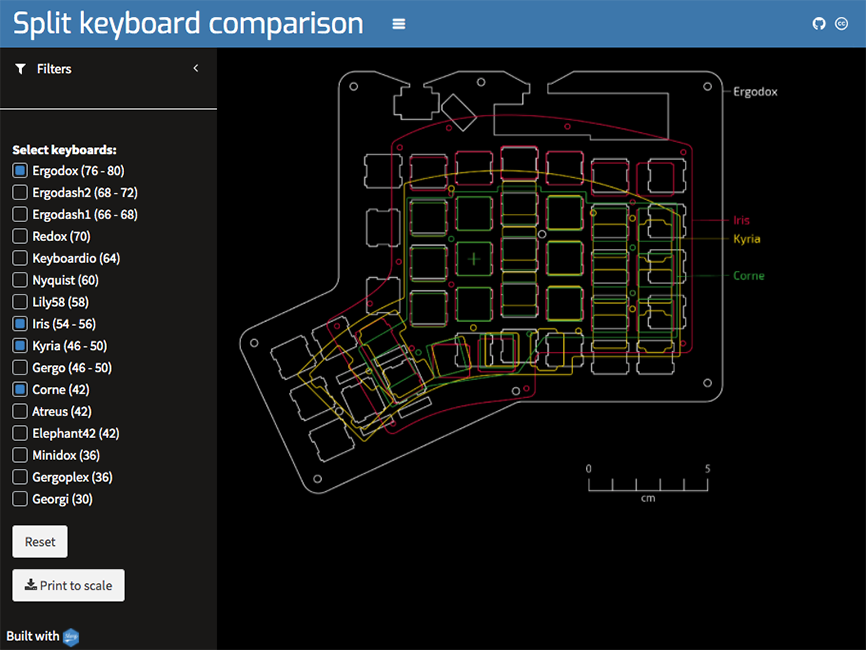
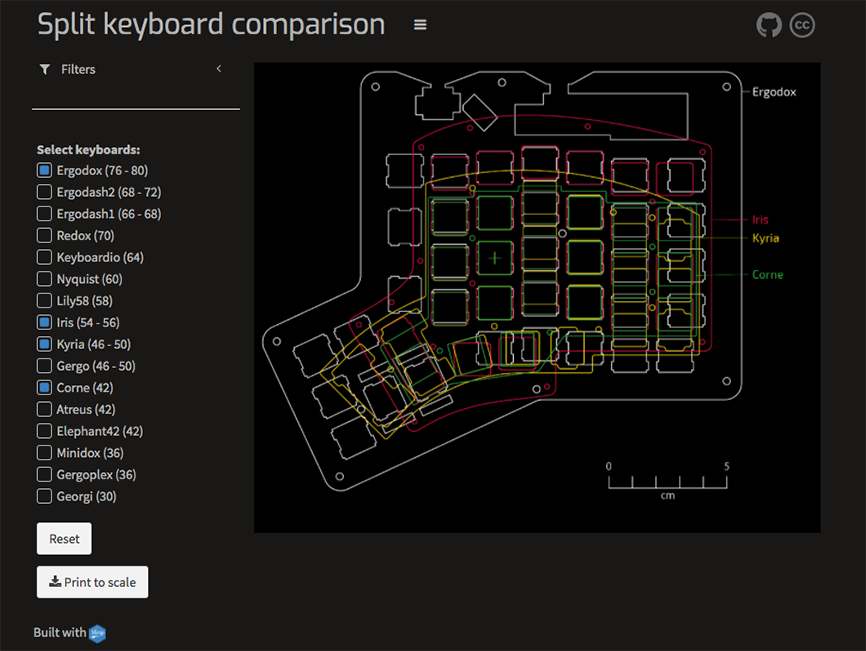
changed styling

diff --git a/style.css b/style.css
@@ -1,35 +1,57 @@
 @import url(https://fonts.googleapis.com/css?family=Exo);
 /* fontawesome icons in header */
 .fa.fa-github {
-  margin: 18px 7px 0px 0px;
+  color: #777;
+  margin: 12px 5px 0px 0px;
+}
+.fa.fa-github:hover {
+  color: #FFF;
 }
 .fa.fa-creative-commons {
-  margin: 18px 7px 0px 0px;
+  color: #777;
+  margin: 0px 10px 0px 0px;
+}
+.fa.fa-creative-commons:hover {
+  color: #FFF;
 }
 /* header title */
 .main-header .logo {
   font-family: Exo, sans-serif;
   font-size: 30px;
 }
+.skin-blue .main-header .logo:hover {
+  background-color: #1A1917;
+  color: #FFF;
+}
 /* header background */
 .skin-blue .main-header .logo {
-    background-color: #4682b4;
+  background-color: #1A1917;
+  color: #bdbdbd;
 }
 .skin-blue .main-header .navbar {
-    background-color: #4682b4;
+  background-color: #1A1917;
+}
+.skin-blue .main-header .navbar .sidebar-toggle {
+  color: #bdbdbd;
 }
 /* sidebar */
+.sidebar {
+  color: #bdbdbd;
+}
+/*.pretty input:hover {
+  color: #FFF;
+}*/
 .skin-blue .main-sidebar {
   background-color: #1A1917;
 }
 /* filter menu title */
 .skin-blue .sidebar a {
-  color: #FFF;
+  color: #bdbdbd;
 }
 .skin-blue .sidebar-menu>li.active>a, .skin-blue .sidebar-menu>li:hover>a {
     color: #FFF;
-    background: #000;
-    border-left-color: #000;
+    border-left-color: #FFF;
+    background-color: #1A1917;
 }
 /* filter submenu expanded */
 .skin-blue .sidebar-menu>li>.treeview-menu {
@@ -42,14 +64,14 @@
   margin: 6px 5px 6px 15px;
 }
 /* toggle menu button when hovered  */
-.skin-blue .main-header .navbar .sidebar-toggle:hover{
+.skin-blue .main-header .navbar .sidebar-toggle:hover {
   background-color: #1A1917;
 }
 /* body */
 .content-wrapper, .right-side {
-  background-color: #000;
+  background-color: #1A1917;
 }
 /* footer */
 .skin-blue .wrapper {
-  background-color: #000;
+  background-color: #1A1917;
 }
